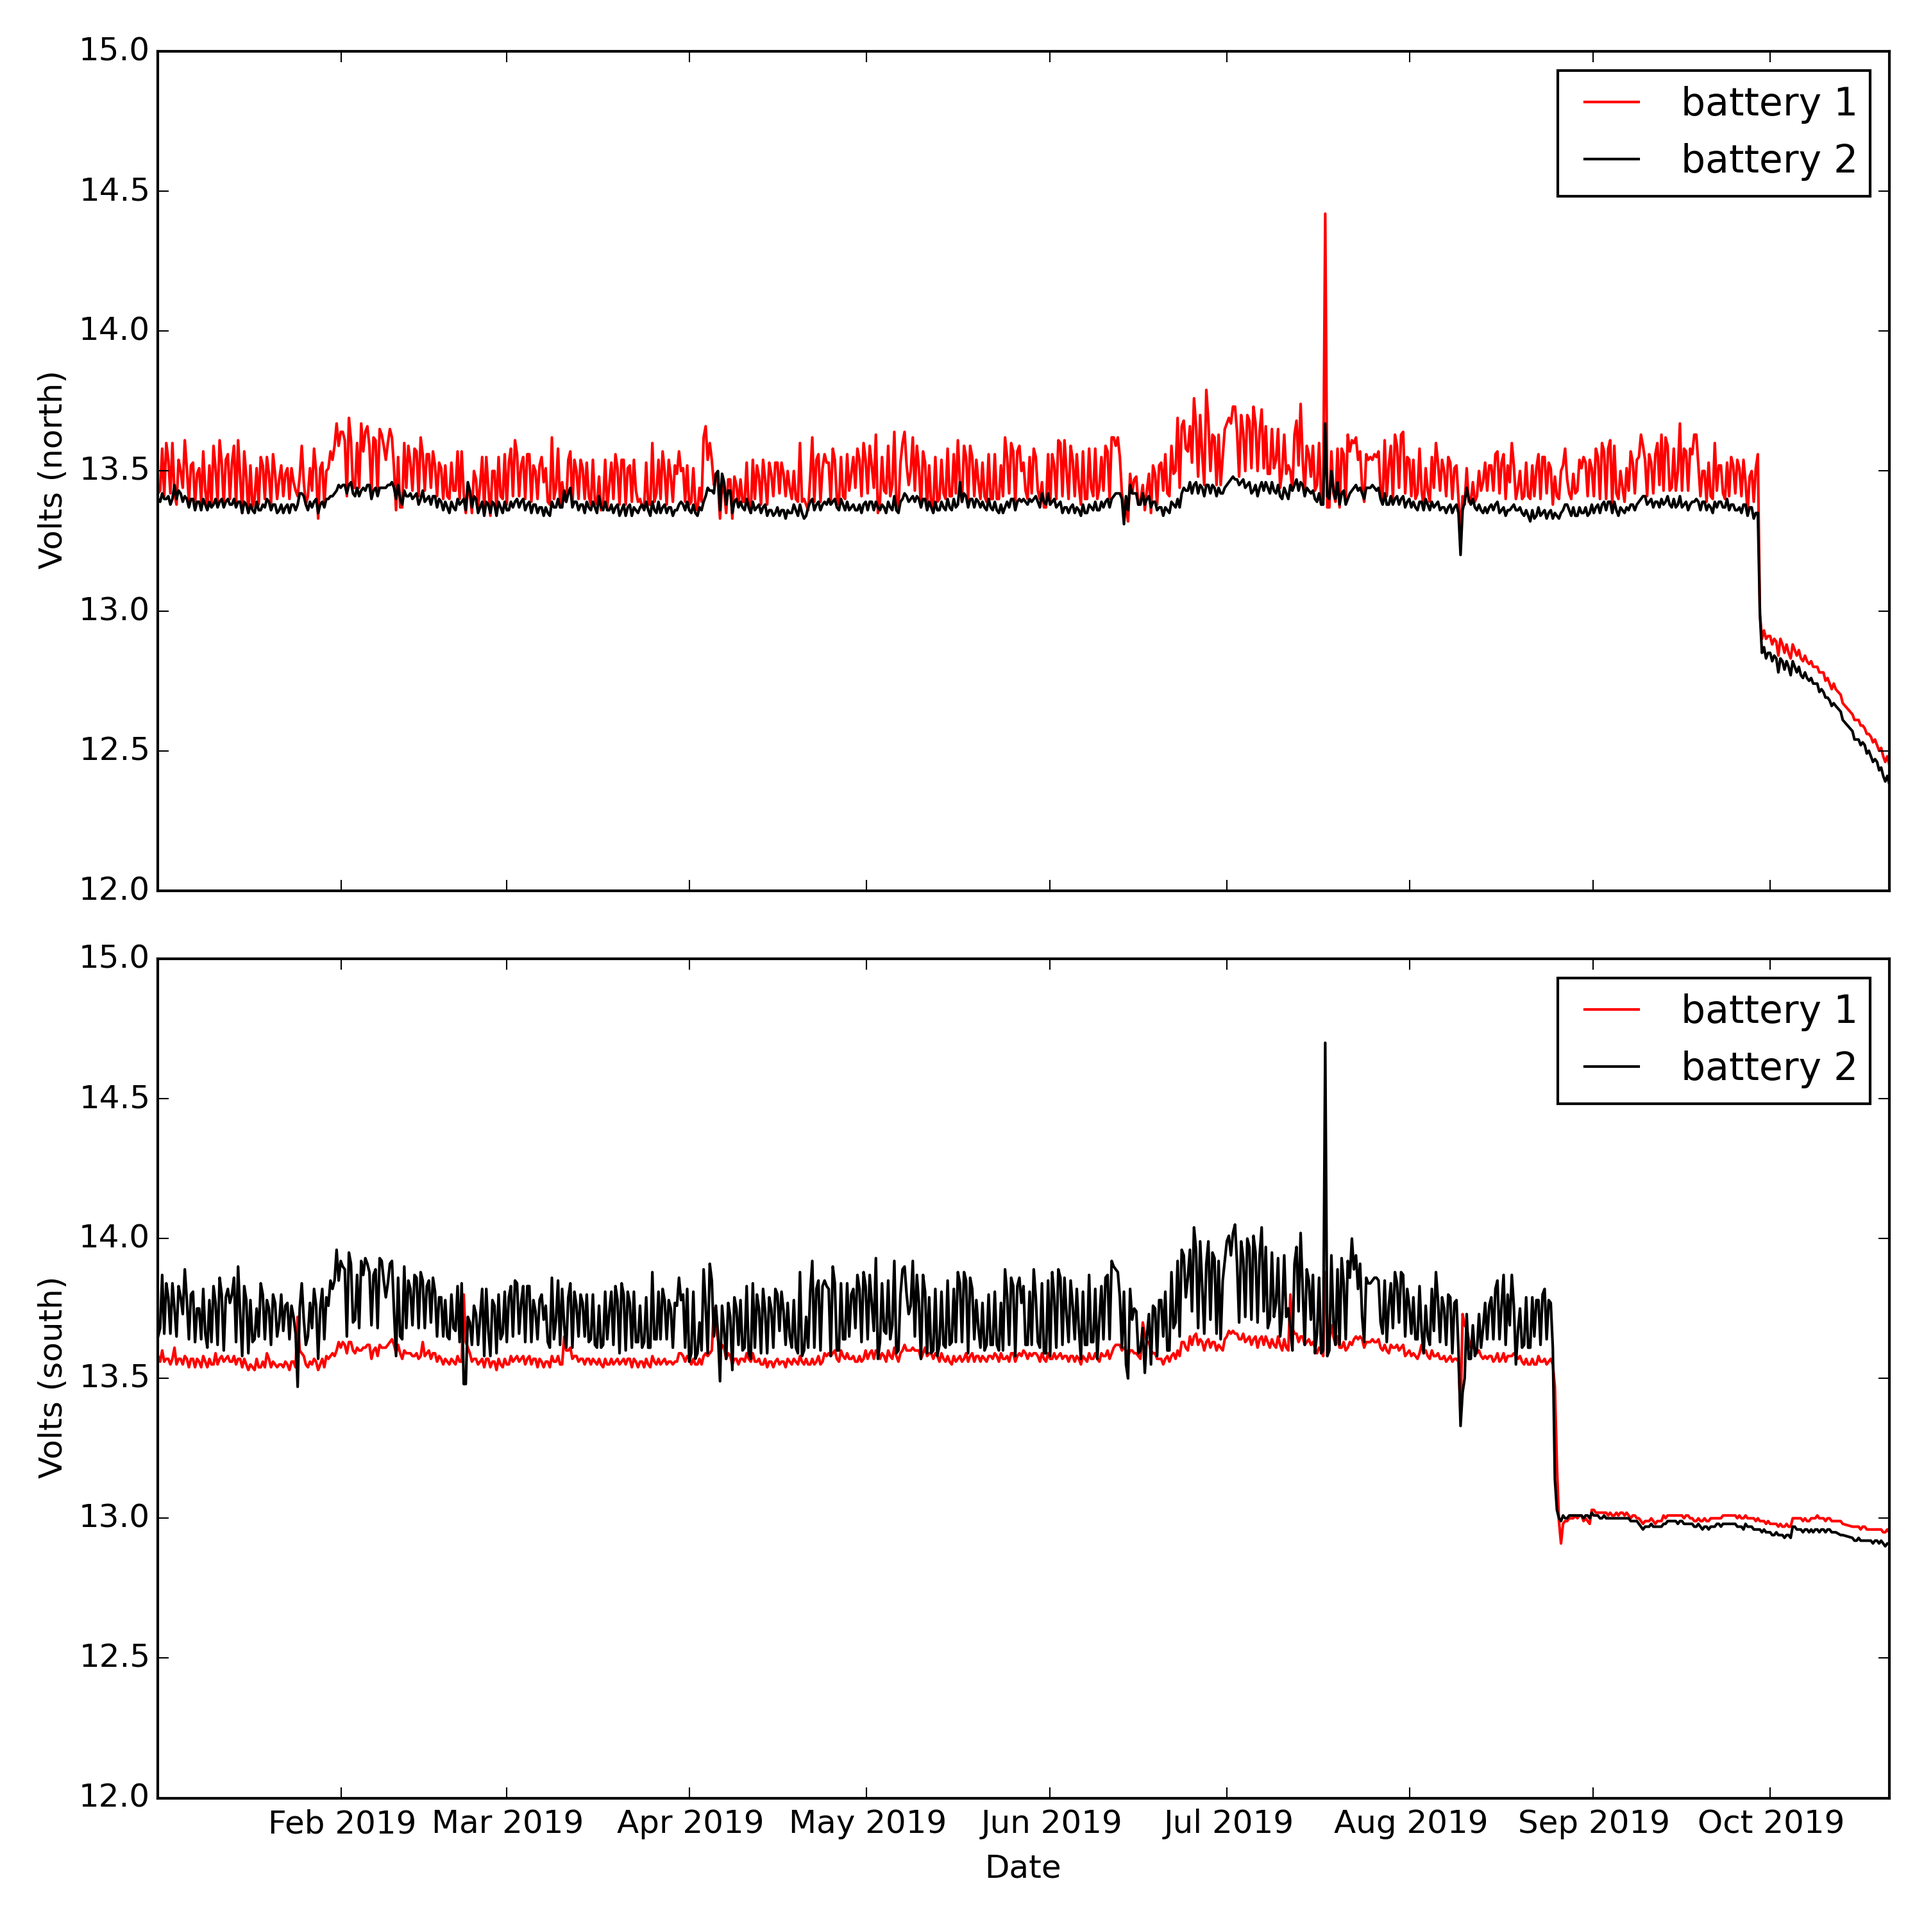
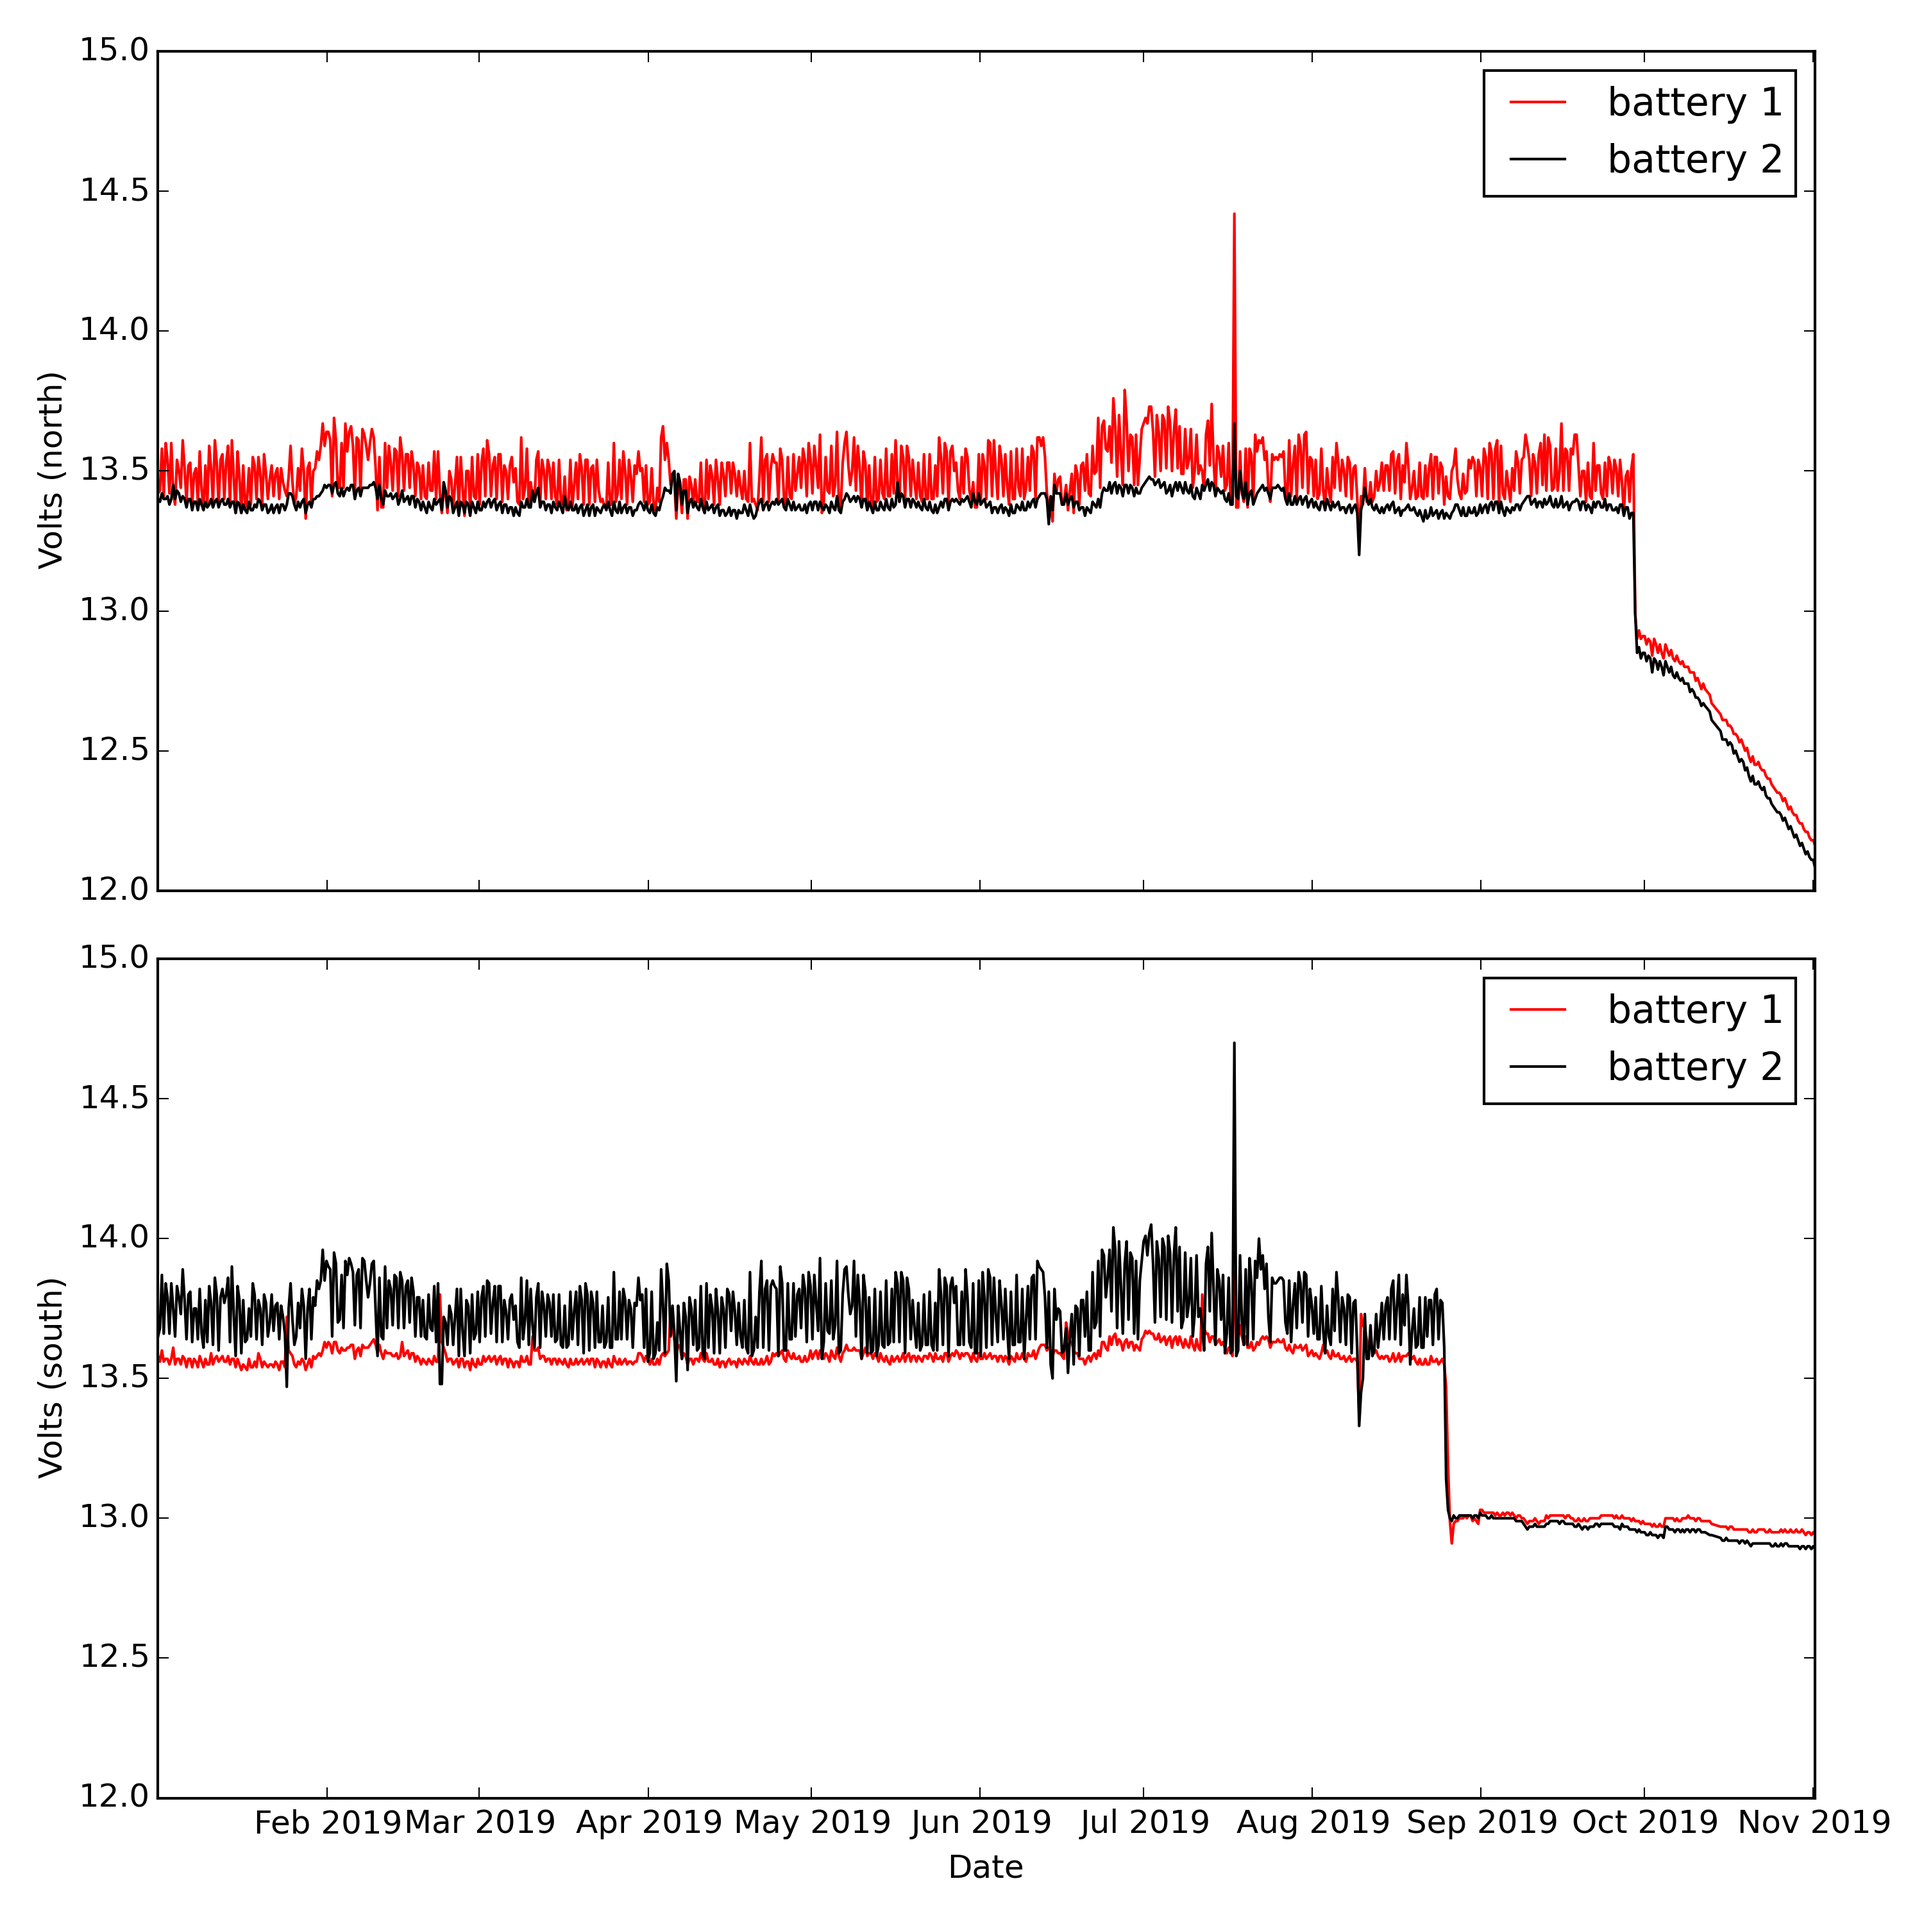
updates roof battery voltage plot

diff --git a/plotRoofBatteries.py b/plotRoofBatteries.py
@@ -21,7 +21,7 @@ def get_battery_data(start, finish):
 
 if __name__ == "__main__":
     start = "2019-01-01 00:00:00"
-    finish = "2019-10-31 23:59:59"
+    finish = "2019-11-30 23:59:59"
     datas = get_battery_data(start, finish)
 
     time, north_1, north_2, south_1, south_2 = [], [], [], [], []
